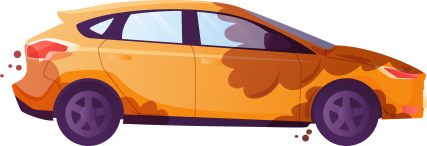
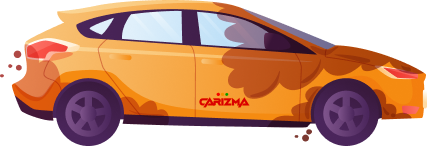
fix: Updated changes

Changed region(s): [[0.4567, 0.6301, 0.5785, 0.7397]]

diff --git a/src/app/home/home.component.html b/src/app/home/home.component.html
@@ -4,7 +4,7 @@
     <div class="row sellContainer">
       <div class="col-lg-5">
         <p class="sellCarText">Sell your car in <span class="sellCarTextColored">any condition</span> hassle free!</p>
-        <p class="onlineQuote">Online quotes and immediate payment!</p>
+        <p class="onlineQuote">Online quotes and immediate payment on pick up!</p>
         <app-car-selection></app-car-selection>
         <br /><br />
       </div>
@@ -134,7 +134,7 @@
           <div class="margin-top-62">
             <h2 class="how-it-works-header">We pick it, You <span class="step3ColoredText">get paid</span></h2>
             <p class="black-color how-it-works-text">Our designated pickup affiliate will perform a brief inspection, issue you a check and
-              elegantly tow
+              properly tow
               away your vehicle.</p>
           </div>
           </div>
@@ -299,8 +299,8 @@
           <div class="faq-item faq-active">
             <h3><span class="num text-format-open-sans">1.</span> <span style="color: white;">Who are we?</span></h3>
             <div class="faq-content">
-              <p class="text-format-open-sans">Feugiat pretium nibh ipsum consequat. Tempus iaculis urna id volutpat lacus laoreet non curabitur
-                gravida. Venenatis lectus magna fringilla urna porttitor rhoncus dolor purus non.</p>
+              <p class="text-format-open-sans">Carizma is a US based company on a mission to make car selling easy.</p>
+              <p class="text-format-open-sans">Behind the scenes, we employ people who care about providing customers a stress-free car selling experience.</p>
             </div>
             <i class="faq-toggle bi bi-chevron-right"></i>
           </div><!-- End Faq item-->
@@ -308,9 +308,9 @@
           <div class="faq-item">
             <h3><span class="num text-format-open-sans">2.</span> <span style="color: white;">How does instant offer work?</span></h3>
             <div class="faq-content text-format-open-sans">
-              <p>Dolor sit amet consectetur adipiscing elit pellentesque habitant morbi. Id interdum velit laoreet
-                id donec ultrices. Fringilla phasellus faucibus scelerisque eleifend donec pretium. Est pellentesque
-                elit ullamcorper dignissim. Mauris ultrices eros in cursus turpis massa tincidunt dui.</p>
+              <p>After answering a handful of questions about your car, we provide you with an instant offer, no haggling or sleazy salesman included!
+
+                This offer is based on market value and information provided by you. Once you receive the offer, you have 7 days to accept. No pressure!</p>
             </div>
             <i class="faq-toggle bi bi-chevron-right"></i>
           </div><!-- End Faq item-->
@@ -318,30 +318,23 @@
           <div class="faq-item">
             <h3><span class="num text-format-open-sans">3.</span> <span style="color: white;">Are you in my city?</span></h3>
             <div class="faq-content text-format-open-sans">
-              <p>Eleifend mi in nulla posuere sollicitudin aliquam ultrices sagittis orci. Faucibus pulvinar
-                elementum integer enim. Sem nulla pharetra diam sit amet nisl suscipit. Rutrum tellus pellentesque
-                eu tincidunt. Lectus urna duis convallis convallis tellus. Urna molestie at elementum eu facilisis
-                sed odio morbi quis</p>
+              <p>Most likely, yes! We partner with transporters in all 50 cities to pick up and move cars right where we need them.</p>
             </div>
             <i class="faq-toggle bi bi-chevron-right"></i>
           </div><!-- End Faq item-->
 
           <div class="faq-item">
-            <h3><span class="num text-format-open-sans">4.</span> <span style="color: white;">What happens to my car?</span></h3>
+            <h3><span class="num text-format-open-sans">4.</span> <span style="color: white;">Do I need to clean my car before it’s picked up?</span></h3>
             <div class="faq-content text-format-open-sans">
-              <p>Dolor sit amet consectetur adipiscing elit pellentesque habitant morbi. Id interdum velit laoreet
-                id donec ultrices. Fringilla phasellus faucibus scelerisque eleifend donec pretium. Est pellentesque
-                elit ullamcorper dignissim. Mauris ultrices eros in cursus turpis massa tincidunt dui.</p>
+              <p>No scrubbing required, but we do recommend removing all personal items. It doesn’t hurt to sift through any trash to make sure nothing of value is left behind as we cannot guarantee that anything that is towed away will be searched for or returned. Don’t forget to remove your plates.</p>
             </div>
             <i class="faq-toggle bi bi-chevron-right"></i>
           </div><!-- End Faq item-->
 
           <div class="faq-item">
-            <h3><span class="num text-format-open-sans">5.</span> <span style="color: white;">Can i buy a car from you?</span></h3>
+            <h3><span class="num text-format-open-sans">5.</span> <span style="color: white;">What do you do with my car?</span></h3>
             <div class="faq-content text-format-open-sans">
-              <p>Molestie a iaculis at erat pellentesque adipiscing commodo. Dignissim suspendisse in est ante in.
-                Nunc vel risus commodo viverra maecenas accumsan. Sit amet nisl suscipit adipiscing bibendum est.
-                Purus gravida quis blandit turpis cursus in</p>
+              <p>It depends on a few things, but most of the time we resell them. Sometimes cars can be scraped if they are in rough shape. Most importantly, we get them out of your driveway!</p>
             </div>
             <i class="faq-toggle bi bi-chevron-right"></i>
           </div><!-- End Faq item-->
@@ -362,7 +355,7 @@
   <!--  Section Title -->
   <div class="container-fluid section-title">
     <h2 class="text-format-montserrat">Features</h2>
-    <p class="text-format-open-sans">Necessitatibus eius consequatur ex aliquid fuga eum quidem sint consectetur velit</p>
+    <p class="text-format-open-sans"></p>
   </div>
 
   <div class="container-fluid">
@@ -394,7 +387,7 @@
   <!--  Section Title -->
   <div class="container-fluid section-title" data-aos="fade-up">
     <h2 class="text-format-montserrat">Contact</h2>
-    <p class="text-format-open-sans">Necessitatibus eius consequatur ex aliquid fuga eum quidem sint consectetur velit</p>
+    <p class="text-format-open-sans">Contact us get started</p>
   </div><!-- End Section Title -->
 
   <div class="container-fluid" data-aos="fade-up" data-aos-delay="100">

diff --git a/src/assets/img/mail-Images/acceptOfferStyle.css b/src/assets/img/mail-Images/acceptOfferStyle.css
@@ -1,0 +1,71 @@
+.div1 {
+    margin: auto;
+    width: 50%;
+    border: 3px solid #20769B;
+    border-radius: 5px;
+    padding: 0 0 0 50px;
+  }
+  .div2 {
+    margin: auto;
+    width: 50%;
+    padding: 0 0 0 180px;
+  }
+  .main{
+    margin: auto;
+    width: 75%;
+  }
+  .div3 {
+    margin: auto;
+    width: 45%;
+    border: 1px solid #20769B;
+    padding: 0 0 0 20px;
+    color:#0c0cea;    
+    font-size: small; 
+    border-radius: 5px;
+    font-family: 'Helvetica (sans-serif)', 'Lucida Sans', 'Lucida Sans Regular', 'Lucida Grande', 'Lucida Sans Unicode', Geneva, Verdana, sans-serif;
+    list-style:none;
+    text-align:left;    
+  }
+  .ul_details {
+    width:70%;
+    height:95px;
+    text-align:left;
+    list-style-type:url('blue.gif');
+}
+.ul_details li {    
+    float:left;
+    margin-left:300px;
+    margin-bottom:10px;
+    color:#191970;   
+    font-size: medium;
+    list-style-type:url('blue.gif');
+}
+
+.ul_top_hypers li{
+    display: inline;
+    float:center;
+    font-size: large;
+    padding-inline-start: 200px;
+}
+
+.center {
+    display: block;
+    margin-left: auto;
+    margin-right: auto;
+    width: 50%;
+  }
+
+  .horizlist{
+    list-style:none;
+    text-align:center;      
+}
+#menulist ul{
+      height:200px;
+}
+#menulist li{
+    float:left;
+}
+#menulist li img{
+    display:block;
+}
+

diff --git a/src/assets/img/mail-Images/styles.css b/src/assets/img/mail-Images/styles.css
@@ -1,0 +1,71 @@
+.div1 {
+    margin: auto;
+    width: 50%;
+    border: 3px solid #20769B;
+    border-radius: 5px;
+    padding: 0 0 0 50px;
+  }
+  .div2 {
+    margin: auto;
+    width: 50%;
+    padding: 0 0 0 180px;
+  }
+  .main{
+    margin: auto;
+    width: 75%;
+  }
+  .div3 {
+    margin: auto;
+    width: 45%;
+    border: 1px solid #20769B;
+    padding: 0 0 0 20px;
+    color:#0c0cea;    
+    font-size: small; 
+    border-radius: 5px;
+    font-family: 'Helvetica (sans-serif)', 'Lucida Sans', 'Lucida Sans Regular', 'Lucida Grande', 'Lucida Sans Unicode', Geneva, Verdana, sans-serif;
+    list-style:none;
+    text-align:left;    
+  }
+  .ul_details {
+    width:70%;
+    height:25px;
+    text-align:left;
+    list-style-type:url('blue.gif');
+}
+.ul_details li {    
+    float:left;
+    margin-left:300px;
+    margin-bottom:10px;
+    color:#191970;   
+    font-size: medium;
+    list-style-type:url('blue.gif');
+}
+
+.ul_top_hypers li{
+    display: inline;
+    float:center;
+    font-size: large;
+    padding-inline-start: 200px;
+}
+
+.center {
+    display: block;
+    margin-left: auto;
+    margin-right: auto;
+    width: 50%;
+  }
+
+  .horizlist{
+    list-style:none;
+    text-align:center;      
+}
+#menulist ul{
+      height:200px;
+}
+#menulist li{
+    float:left;
+}
+#menulist li img{
+    display:block;
+}
+

diff --git a/src/app/navigation/footer/footer.component.html b/src/app/navigation/footer/footer.component.html
@@ -133,8 +133,14 @@
   <div class="container-fluid footer-top">
     <div class="row gy-4">
       <div class="col-lg-4 offset-lg-1 col-md-12 footer-about">
-        <a href="index.html" class="logo d-flex align-items-center">
+        <!-- <a href="index.html" class="logo d-flex align-items-center">
           <span class="color text-format-montserrat">CARIZMA</span>
+        </a> -->
+        <a href="index.html" class="logo d-flex align-items-center me-auto me-xl-0">
+          <!-- Uncomment the line below if you also wish to use an image logo -->
+          <img src="assets/img/logo01.png" alt="carizma logo" style="margin-left: 24px;">
+          <!-- <h1>Append</h1>
+          <span>.</span> -->
         </a>
         <p class="color text-format-open-sans">Best place to sell your car</p>
         <div class="social-links d-flex mt-4" style="color: white">

diff --git a/src/app/sell-car/sell-car-home/sell-car-home.component.html b/src/app/sell-car/sell-car-home/sell-car-home.component.html
@@ -4,7 +4,7 @@
     <div class="row">
       <div class="col-lg-6">
         <h2>Sell your car in any condition hassle free!</h2>
-        <p>Online quotes and immediate payment!</p>
+        <p>Online quotes and immediate payment on pick up!</p>
         <app-car-selection></app-car-selection>
         <br /><br />
         <!-- <div class="tab">
@@ -534,7 +534,7 @@
   <!--  Section Title -->
   <div class="container section-title" data-aos="fade-up">
     <h2>Contact</h2>
-    <p>Necessitatibus eius consequatur ex aliquid fuga eum quidem sint consectetur velit</p>
+    <p>Contact us get started</p>
   </div><!-- End Section Title -->
 
   <div class="container" data-aos="fade-up" data-aos-delay="100">

diff --git a/src/app/questionaire/review-page/review-page.component.html b/src/app/questionaire/review-page/review-page.component.html
@@ -337,7 +337,7 @@
                   condition of the vehicle does not meet the description of the
                   vehicle provided. Offer is valid for seven days or 500 miles
                   whichever comes first. By clicking submit I hereby accept all
-                  <a class="text-danger font-weight-bold" style="text-decoration: none">terms and conditions.</a>
+                  <a class="text-danger font-weight-bold" style="text-decoration: none" (click)="navigate()">terms and conditions.</a>
                   The information I provided is correct to the best of my
                   knowledge.
                 </label>

diff --git a/src/app/questionaire/review-page/review-page.component.ts b/src/app/questionaire/review-page/review-page.component.ts
@@ -60,4 +60,9 @@ export class ReviewPageComponent {
   routeToStepperIndex(index: number) {
     this.reviewService.setStepperIndex(index);
   }
+
+  navigate() {
+    window.open('https://www.carizma.com/terms-and-conditions', '_blank');
+      return;
+  }
 }
